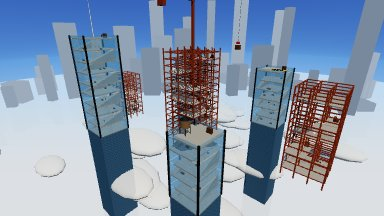
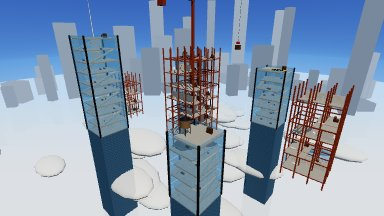
Glass Skyline: steel frames keep beams only at the levels with a deck

diff --git a/src/main.js b/src/main.js
@@ -1,15 +1,15 @@
 import * as THREE from 'three';
-import { Arena, MAPS } from './arena.js?v=20261114030206';
-import { Fighter, PALETTE, GUARD, setMetalEnv, metalEnvFor } from './fighter.js?v=20261114030206';
-import { bakeMeshes, Pieces, Particles, splitSoup } from './slice.js?v=20261114030206';
-import { sfx, ensureAudio, setListener, setVolume } from './audio.js?v=20261114030206';
-import * as net from './net.js?v=20261114030206';
-import { MODES, POINT_MODES, MODE_GOAL, ModeFx, makeCrown } from './modes.js?v=20261114030206';
-import { profile, addCoins, randomLook, cleanLook, item } from './cosmetics.js?v=20261114030206';
-import { makeKillFx } from './killfx.js?v=20261114030206';
-import { makeGrapple } from './grapple.js?v=20261114030206';
-import { initShop } from './shop.js?v=20261114030206';
-import { breakChunk, chunkSoup } from './dojo.js?v=20261114030206';
+import { Arena, MAPS } from './arena.js?v=20261114030358';
+import { Fighter, PALETTE, GUARD, setMetalEnv, metalEnvFor } from './fighter.js?v=20261114030358';
+import { bakeMeshes, Pieces, Particles, splitSoup } from './slice.js?v=20261114030358';
+import { sfx, ensureAudio, setListener, setVolume } from './audio.js?v=20261114030358';
+import * as net from './net.js?v=20261114030358';
+import { MODES, POINT_MODES, MODE_GOAL, ModeFx, makeCrown } from './modes.js?v=20261114030358';
+import { profile, addCoins, randomLook, cleanLook, item } from './cosmetics.js?v=20261114030358';
+import { makeKillFx } from './killfx.js?v=20261114030358';
+import { makeGrapple } from './grapple.js?v=20261114030358';
+import { initShop } from './shop.js?v=20261114030358';
+import { breakChunk, chunkSoup } from './dojo.js?v=20261114030358';
 
 // ---------- settings ----------
 const store = {

diff --git a/index.html b/index.html
@@ -4,7 +4,7 @@
 <meta charset="utf-8">
 <meta name="viewport" content="width=device-width,initial-scale=1">
 <title>Sever</title>
-<meta name="build" content="20261114030206">
+<meta name="build" content="20261114030358">
 <link rel="icon" href="data:,">
 <script>
 // Stale-page guard (as in Splatline): if version.json names a newer build than this page, reload once.
@@ -127,12 +127,12 @@ window.severVersion.check();
 <script type="importmap">
 { "imports": {
   "three": "https://cdn.jsdelivr.net/npm/three@0.160.0/build/three.module.js",
-  "./src/main.js": "./src/main.js?v=20261114030206",
-  "./src/arena.js": "./src/arena.js?v=20261114030206",
-  "./src/fighter.js": "./src/fighter.js?v=20261114030206",
-  "./src/slice.js": "./src/slice.js?v=20261114030206",
-  "./src/audio.js": "./src/audio.js?v=20261114030206",
-  "./src/net.js": "./src/net.js?v=20261114030206"
+  "./src/main.js": "./src/main.js?v=20261114030358",
+  "./src/arena.js": "./src/arena.js?v=20261114030358",
+  "./src/fighter.js": "./src/fighter.js?v=20261114030358",
+  "./src/slice.js": "./src/slice.js?v=20261114030358",
+  "./src/audio.js": "./src/audio.js?v=20261114030358",
+  "./src/net.js": "./src/net.js?v=20261114030358"
 } }
 </script>
 </head>
@@ -274,6 +274,6 @@ window.severVersion.check();
 <div id="toast" style="opacity:0"></div>
 <div id="loading">Loading…</div>
 <noscript><p style="position:fixed;inset:0;display:flex;align-items:center;justify-content:center">Sever needs JavaScript and WebGL.</p></noscript>
-<script type="module" src="src/main.js?v=20261114030206"></script>
+<script type="module" src="src/main.js?v=20261114030358"></script>
 </body>
 </html>

diff --git a/src/city.js b/src/city.js
@@ -4,7 +4,7 @@
 // steel frames (unbreakable) are there to swing from, run along and stand on.
 import * as THREE from 'three';
 import { deck, prop } from './maps2.js';
-import { kindMats, chunk, group, wall, stack, finishBrk, kill } from './dojo.js?v=20261114030206';
+import { kindMats, chunk, group, wall, stack, finishBrk, kill } from './dojo.js?v=20261114030358';
 
 const TAU = Math.PI * 2;
 const std = (color, o = {}) => new THREE.MeshStandardMaterial({ color, roughness: 0.8, ...o });
@@ -105,7 +105,7 @@ export function buildCity(A, T) {
     for (const p of ps.slice(1)) p.parent = ps[0].i;
     A.curPlat = ps[0].i; const g = group();
     for (const X of xs) for (const Z of zs) chunk(A, g, 'steel', X - 0.25, X + 0.25, yb, top, Z - 0.25, Z + 0.25, true);
-    for (let y = yb + 4; y <= top + 0.01; y += 4) {
+    for (const y of [...new Set(decks.map((k) => k[0]))]) { // beams only at the levels with a deck (the rest of the frame is just columns)
       for (const Z of zs) chunk(A, g, 'steel', x0 - 0.25, x1 + 0.25, y - 0.4, y, Z - 0.15, Z + 0.15, true);
       for (const X of xs) chunk(A, g, 'steel', X - 0.15, X + 0.15, y - 0.4, y, z0 - 0.25, z1 + 0.25, true);
     }

diff --git a/src/shop.js b/src/shop.js
@@ -1,10 +1,10 @@
 // The shop screen: browse by category, try things on a turning, swinging preview fighter, buy and equip.
 import * as THREE from 'three';
-import { Fighter, PALETTE, setMetalEnv, metalEnvFor } from './fighter.js?v=20261114030206';
-import { Particles, Pieces, bakeMeshes } from './slice.js?v=20261114030206';
-import { makeKillFx } from './killfx.js?v=20261114030206';
-import { makeGrapple } from './grapple.js?v=20261114030206';
-import { CATEGORIES, CATALOG, item, profile, owns, buy, equip } from './cosmetics.js?v=20261114030206';
+import { Fighter, PALETTE, setMetalEnv, metalEnvFor } from './fighter.js?v=20261114030358';
+import { Particles, Pieces, bakeMeshes } from './slice.js?v=20261114030358';
+import { makeKillFx } from './killfx.js?v=20261114030358';
+import { makeGrapple } from './grapple.js?v=20261114030358';
+import { CATEGORIES, CATALOG, item, profile, owns, buy, equip } from './cosmetics.js?v=20261114030358';
 
 const $ = (id) => document.getElementById(id);
 const hex = (c) => '#' + c.toString(16).padStart(6, '0');

diff --git a/src/arena.js b/src/arena.js
@@ -3,8 +3,8 @@
 // so collision and "what am I standing on" stay simple and identical in every browser.
 import * as THREE from 'three';
 import { buildPagoda, buildIsles, buildBowl } from './maps2.js';
-import { buildCity } from './city.js?v=20261114030206';
-import { buildDojo } from './dojo.js?v=20261114030206';
+import { buildCity } from './city.js?v=20261114030358';
+import { buildDojo } from './dojo.js?v=20261114030358';
 const NONE = [];
 const _bm = new THREE.Matrix4(), _bp = new THREE.Vector3(), _bq = new THREE.Quaternion(), _bs = new THREE.Vector3(); // bamboo instance updates
 

diff --git a/src/killfx.js b/src/killfx.js
@@ -1,8 +1,8 @@
 // Kill effects from the shop: what happens to someone you cut down. The body still splits along your
 // cut; the effect changes what sprays out, what the pieces leak, and what becomes of them.
 import * as THREE from 'three';
-import { Particles } from './slice.js?v=20261114030206';
-import { sfx } from './audio.js?v=20261114030206';
+import { Particles } from './slice.js?v=20261114030358';
+import { sfx } from './audio.js?v=20261114030358';
 
 const R = () => Math.random() - 0.5;
 

diff --git a/src/fighter.js b/src/fighter.js
@@ -2,7 +2,7 @@
 // cleanly), posed each frame with a long-striding run cycle, two-bone IK for arms and legs, and a sword
 // driven by the swing input (s.x, s.y).
 import * as THREE from 'three';
-import { item, cleanLook } from './cosmetics.js?v=20261114030206';
+import { item, cleanLook } from './cosmetics.js?v=20261114030358';
 
 // Every material that can end up on a sliced piece is registered here, so a piece's single mesh can use
 // one shared material array and keep each triangle's look.

diff --git a/src/slice.js b/src/slice.js
@@ -2,7 +2,7 @@
 // and turn each side into a tumbling rigid piece. Every original part is convex, so the cut face of a part
 // is the convex hull of the points where the plane crossed it.
 import * as THREE from 'three';
-import { MATS } from './fighter.js?v=20261114030206';
+import { MATS } from './fighter.js?v=20261114030358';
 
 let partSeq = 1;
 const _v = new THREE.Vector3(), _n = new THREE.Vector3(), _nm = new THREE.Matrix3();

diff --git a/src/dojo.js b/src/dojo.js
@@ -6,7 +6,7 @@
 // Vertical: a four-tier dojo tower with stairs spiralling up it, two-storey houses, rooftop bridges, watchtowers
 // and floating shrine islands around the town.
 import * as THREE from 'three';
-import { regMat } from './fighter.js?v=20261114030206';
+import { regMat } from './fighter.js?v=20261114030358';
 import { deck, prop, bridge, stalk, drift, farRing } from './maps2.js';
 
 const TAU = Math.PI * 2, CELL = 6;
